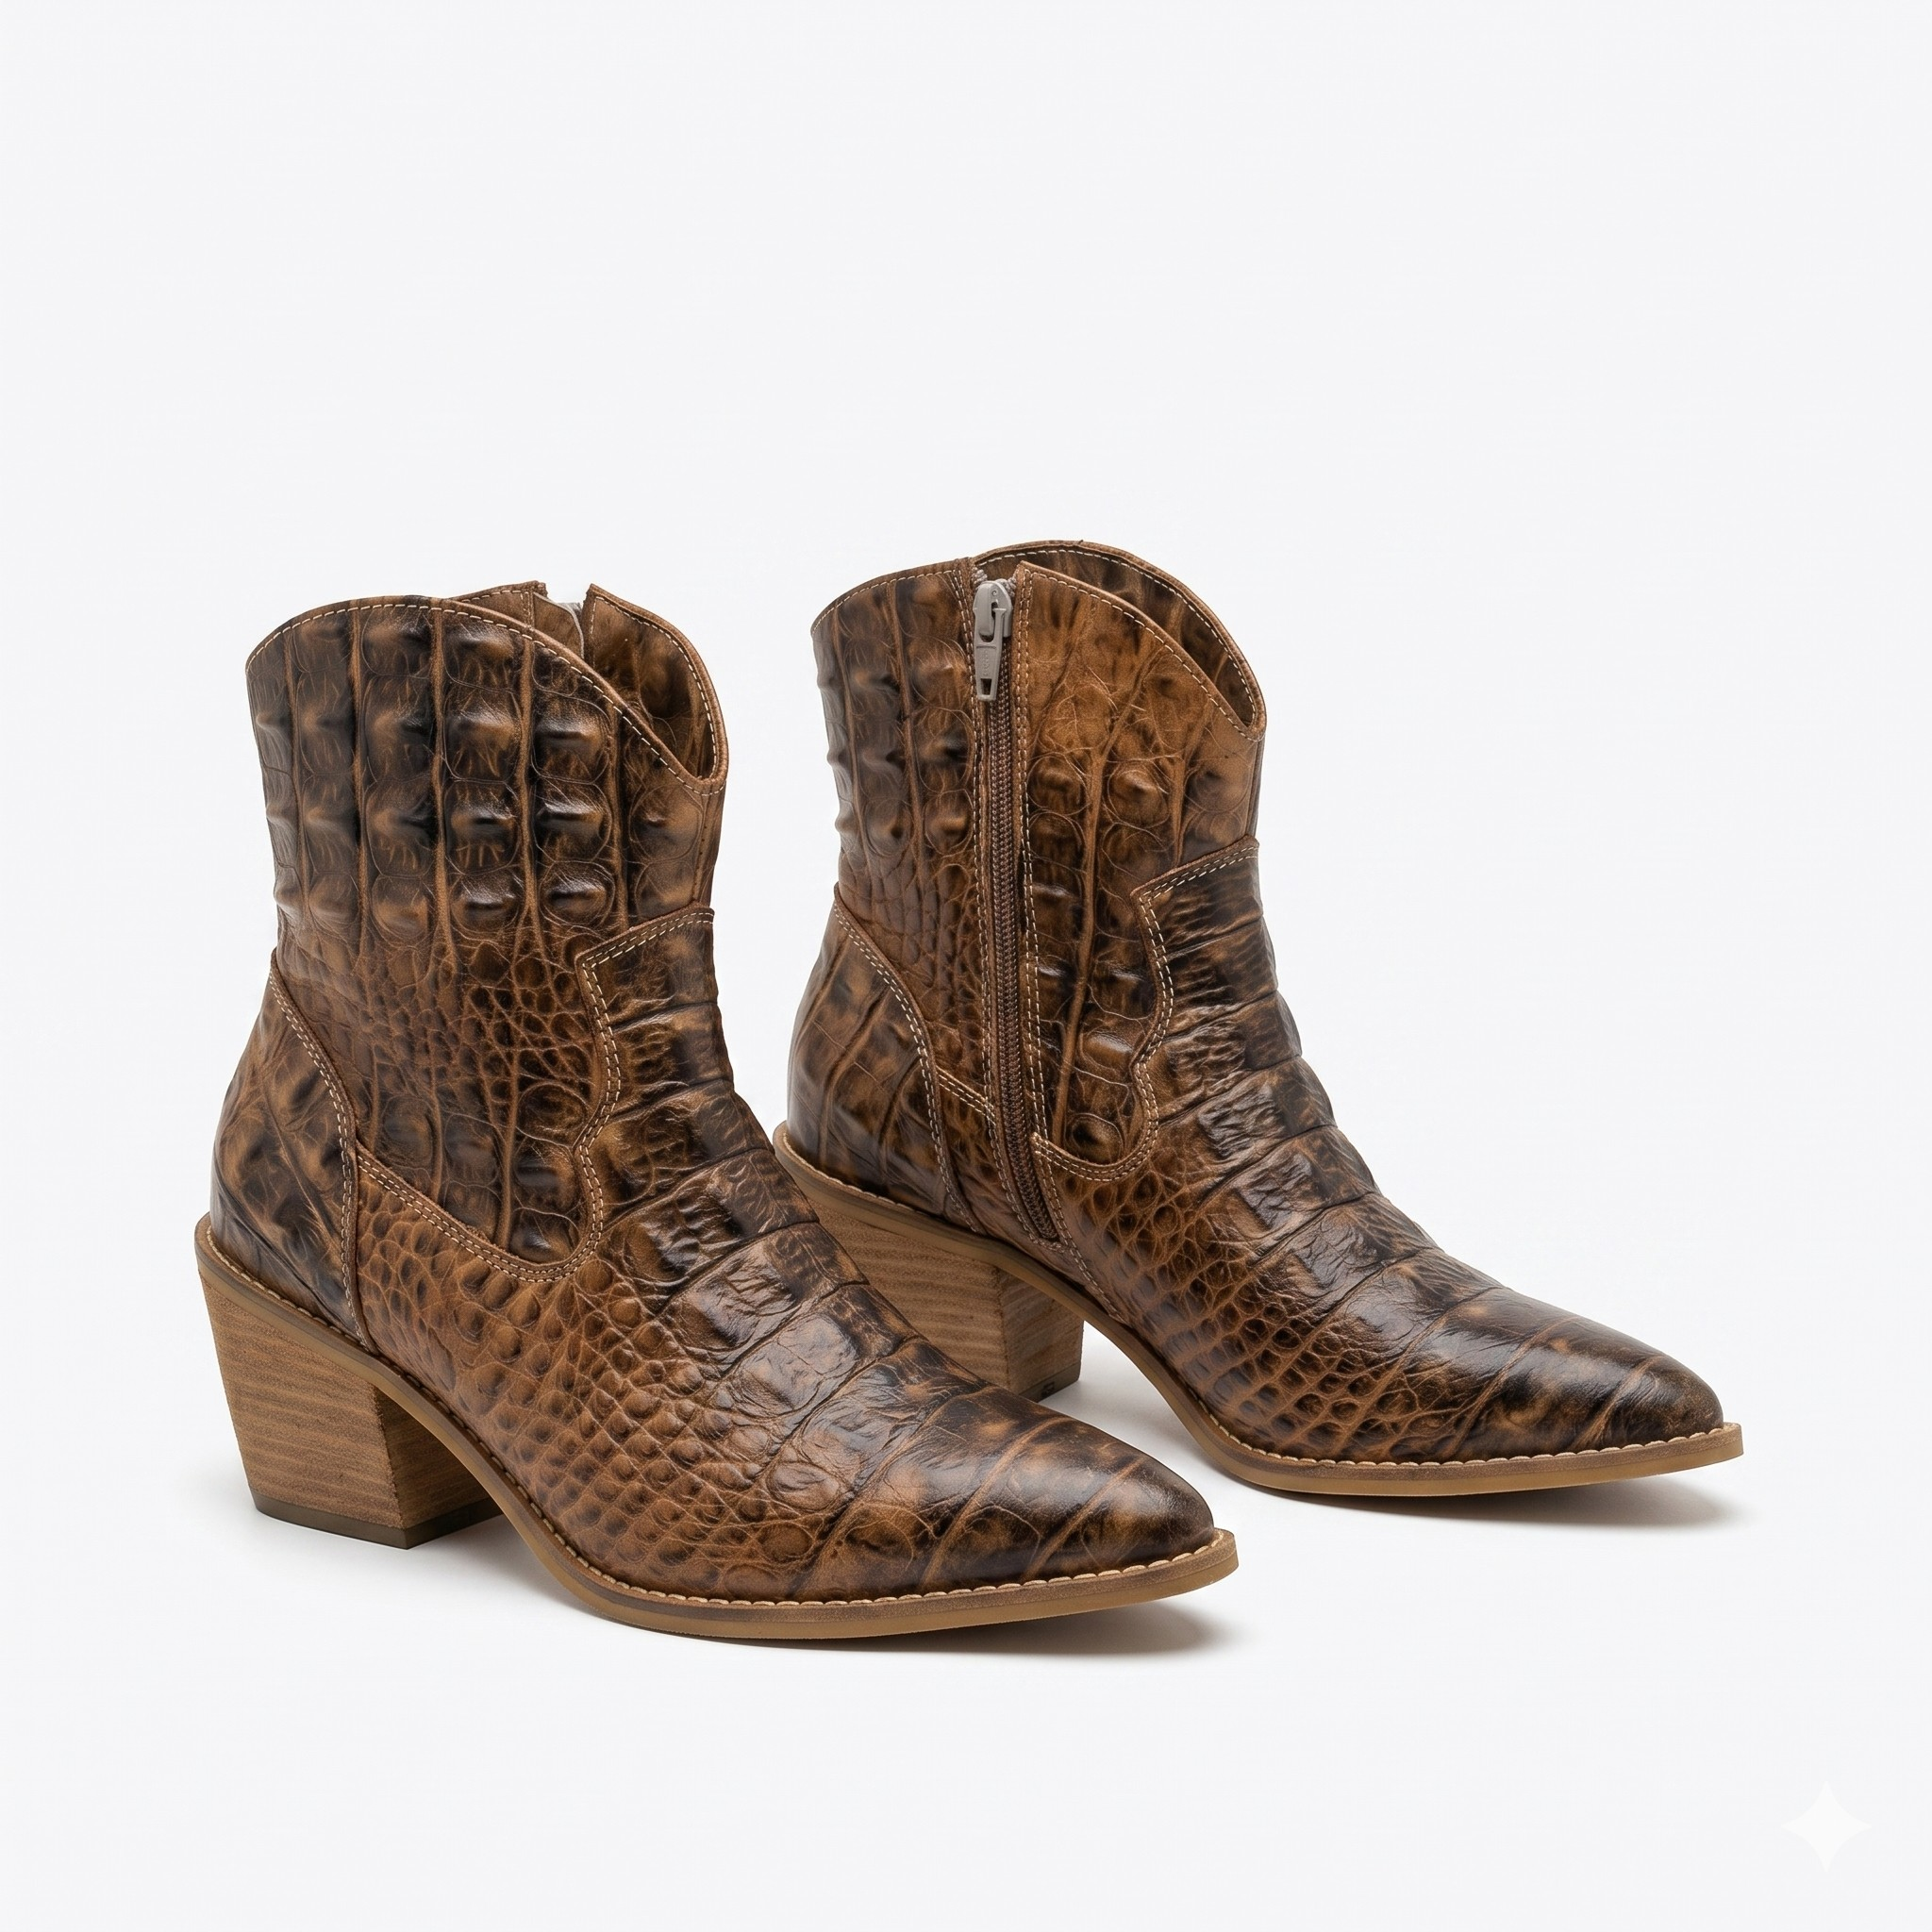
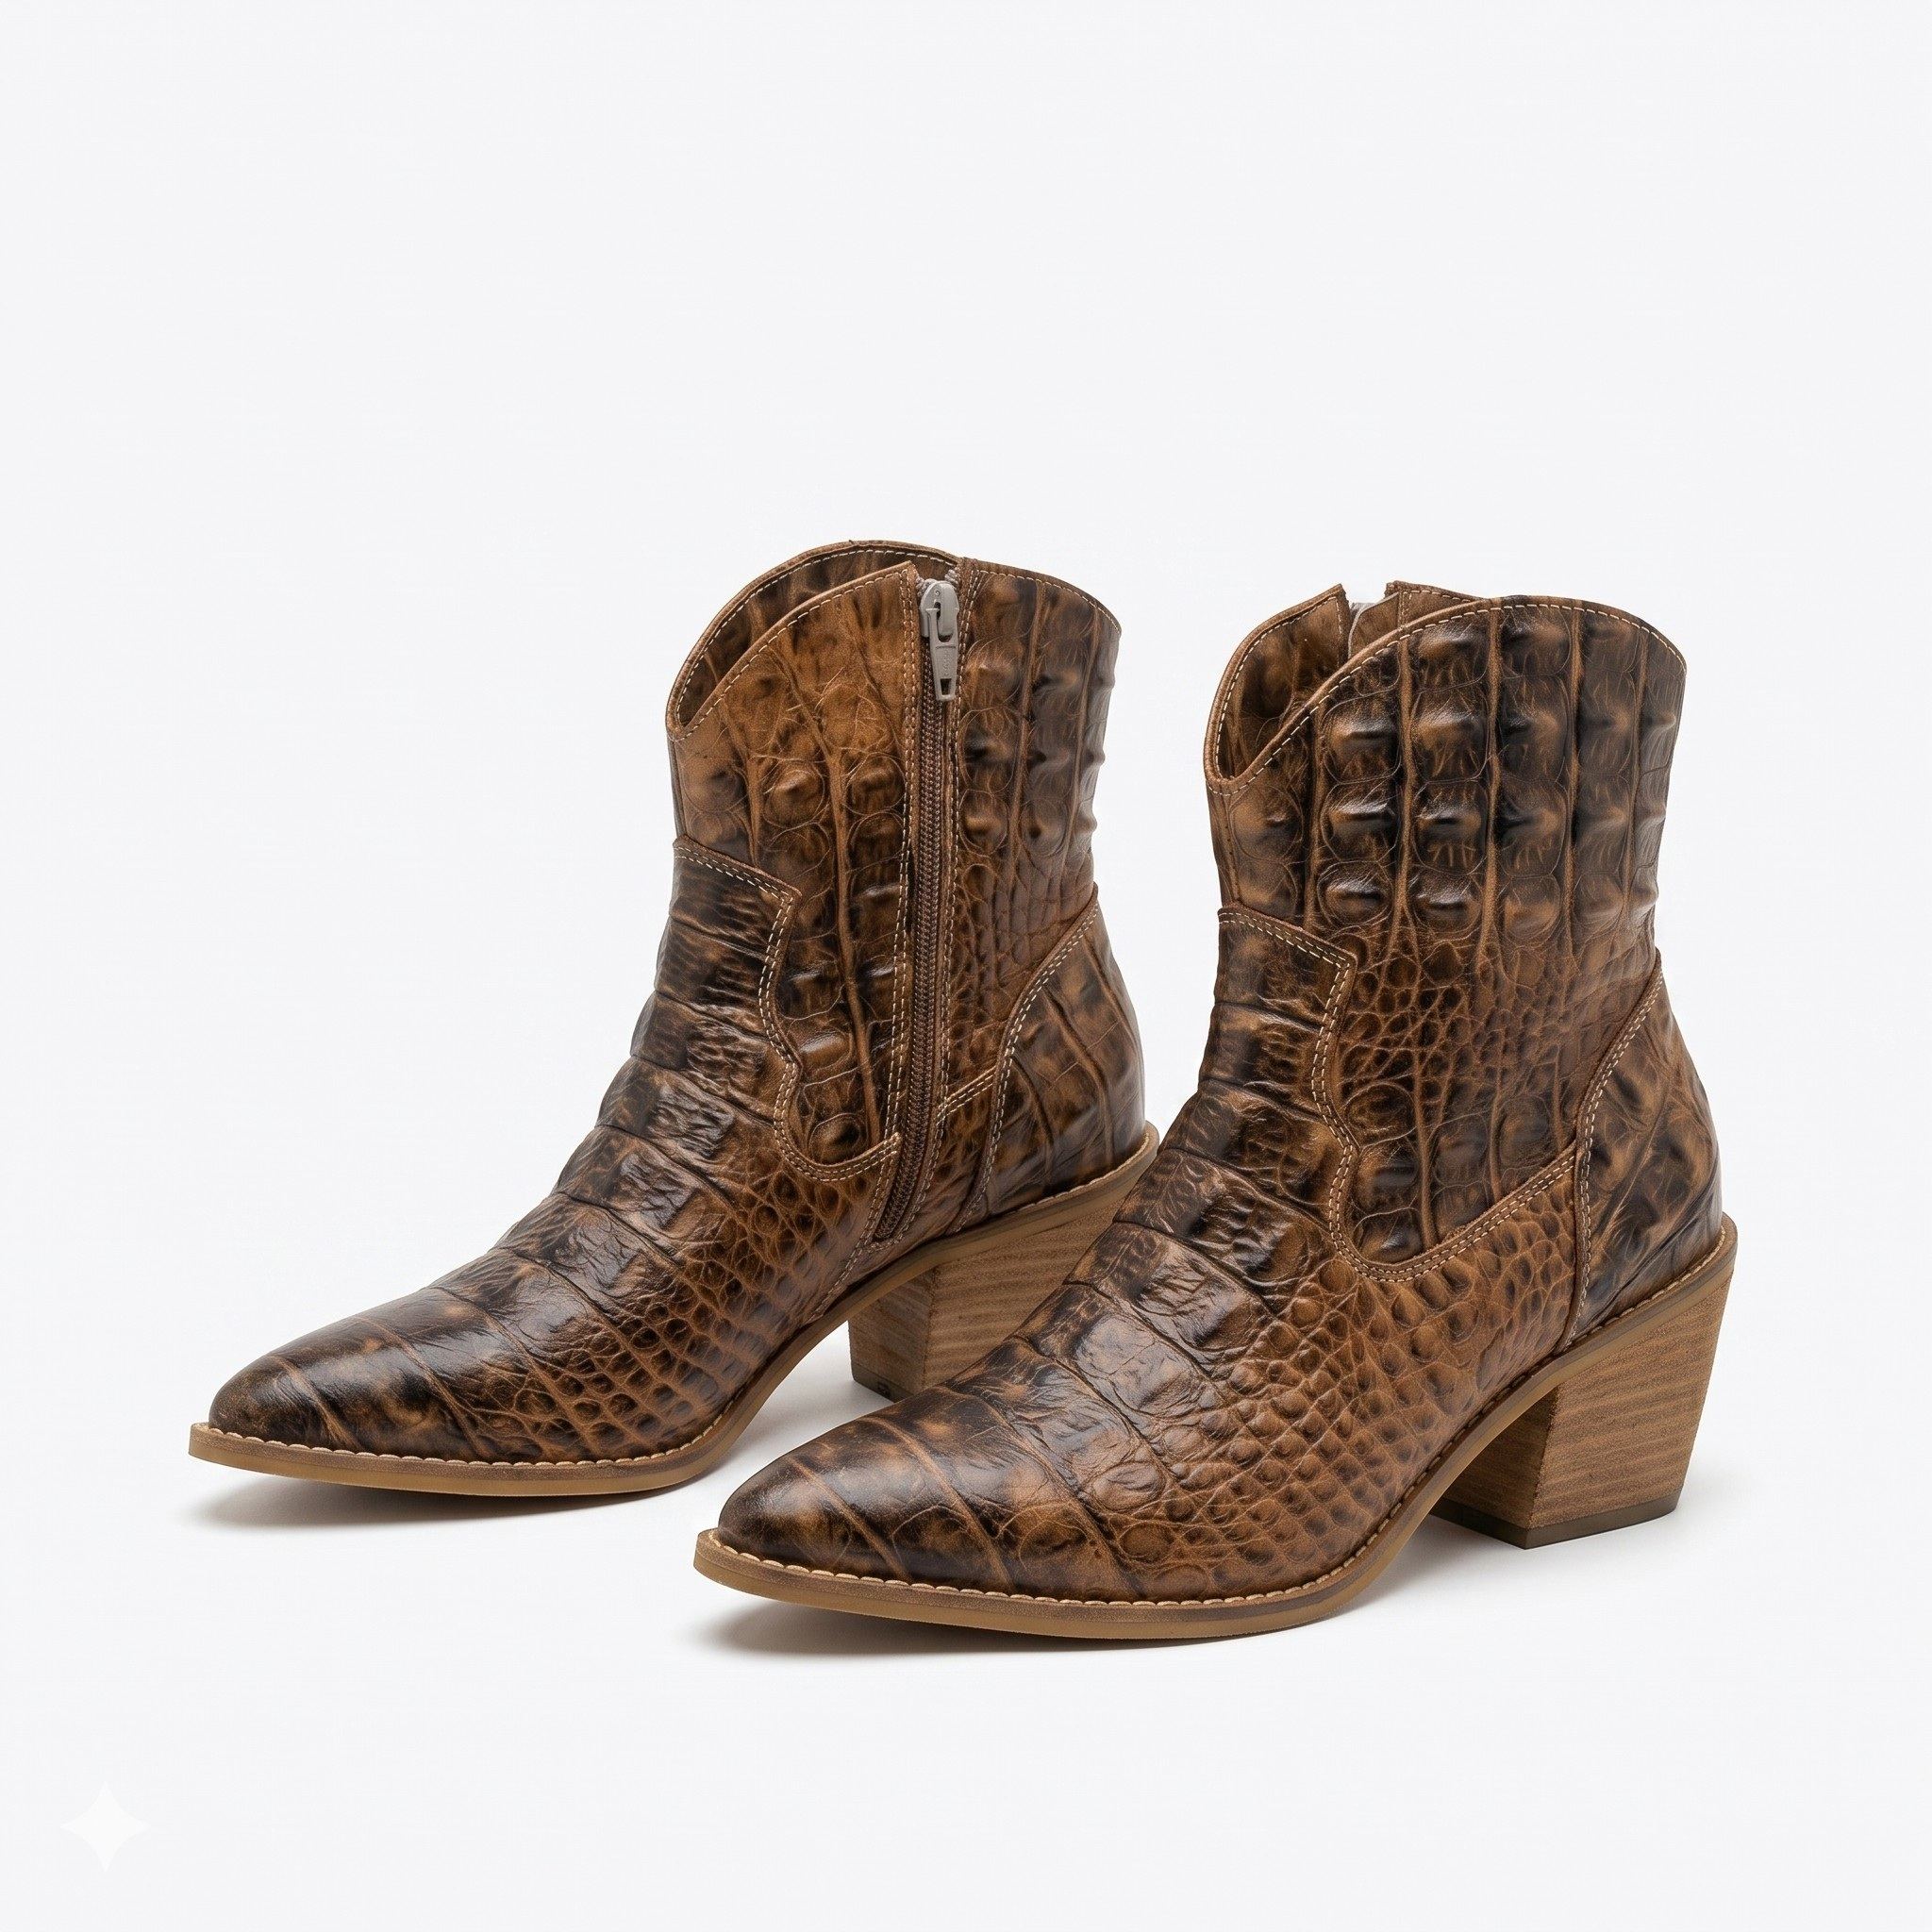
Actualizar catalogo lun 13/07/2026

diff --git a/Catalogo Botines.html b/Catalogo Botines.html
@@ -81,7 +81,7 @@ select.hdr-sel option { background:#222; color:#fff; }
     <input type="text" id="search" placeholder="Buscar por codigo...">
     <select id="filter-talla" class="hdr-sel"><option value="">Todas las tallas</option></select>
     <select id="filter-color" class="hdr-sel"><option value="">Todos los colores</option></select>
-    <span id="gen-date">Actualizado: 13/07/2026 06:11</span>
+    <span id="gen-date">Actualizado: 13/07/2026 06:16</span>
   </div>
 </div>
 <div id="grid"></div>
@@ -113,7 +113,7 @@ select.hdr-sel option { background:#222; color:#fff; }
   </div>
 </div>
 <script>
-const PRODUCTS=[{"_idx": 0, "cod": "570", "nombre": "570", "precio": 15000, "cantidad": 0, "foto": "", "colores": [], "tallas": [], "talla_colores": {}, "color_tallas": {}, "colores_fotos": {}, "mysoft_activo": true, "precios_ciudad": {"Pereira": 15000, "Cartago": 15000}}, {"_idx": 1, "cod": "57000", "nombre": "57000", "precio": 70000, "cantidad": 1, "foto": "fotos/57000.jpg", "colores": ["Beige"], "tallas": ["37"], "talla_colores": {"37": ["Beige"]}, "color_tallas": {"Beige": ["37"]}, "colores_fotos": {"Beige": "fotos/57000.jpg"}, "mysoft_activo": true, "precios_ciudad": {"Cartago": 160000}}, {"_idx": 2, "cod": "57001", "nombre": "57001", "precio": 60000, "cantidad": 0, "foto": "fotos/57001.jpg", "colores": [], "tallas": [], "talla_colores": {}, "color_tallas": {}, "colores_fotos": {}, "mysoft_activo": true, "precios_ciudad": {"Cartago": 165000}}, {"_idx": 3, "cod": "57002", "nombre": "57002", "precio": 177000, "cantidad": 0, "foto": "", "colores": [], "tallas": [], "talla_colores": {}, "color_tallas": {}, "colores_fotos": {}, "mysoft_activo": true, "precios_ciudad": {"Bogota": 215000, "Cartago": 185000}}, {"_idx": 4, "cod": "57003", "nombre": "57003", "precio": 140000, "cantidad": 8, "foto": "", "colores": ["Azul", "Dorado", "Negro", "Rojo"], "tallas": ["34", "36", "39", "40"], "talla_colores": {"39": ["Azul", "Negro", "Rojo"], "36": ["Dorado", "Rojo"], "34": ["Negro", "Rojo"], "40": ["Rojo"]}, "color_tallas": {"Azul": ["39"], "Dorado": ["36"], "Negro": ["34", "39"], "Rojo": ["34", "36", "39", "40"]}, "colores_fotos": {}, "mysoft_activo": true, "precios_ciudad": {"Bogota": 297000, "Cartago": 225000}}, {"_idx": 5, "cod": "57004", "nombre": "57004", "precio": 215000, "cantidad": 0, "foto": "fotos/57004.jpg", "colores": [], "tallas": [], "talla_colores": {}, "color_tallas": {}, "colores_fotos": {}, "mysoft_activo": true, "precios_ciudad": {"Cartago": 215000, "Bogota": 215000}}, {"_idx": 6, "cod": "57005", "nombre": "57005", "precio": 187000, "cantidad": 0, "foto": "fotos/57005.jpg", "colores": [], "tallas": [], "talla_colores": {}, "color_tallas": {}, "colores_fotos": {}, "mysoft_activo": true, "precios_ciudad": {"Bogota": 187000, "Cartago": 167000}}, {"_idx": 7, "cod": "57006", "nombre": "57006", "precio": 245000, "cantidad": 0, "foto": "", "colores": [], "tallas": [], "talla_colores": {}, "color_tallas": {}, "colores_fotos": {}, "mysoft_activo": true, "precios_ciudad": {"Bogota": 245000}}, {"_idx": 8, "cod": "57007", "nombre": "57007", "precio": 185000, "cantidad": 0, "foto": "fotos/57007.jpg", "colores": [], "tallas": [], "talla_colores": {}, "color_tallas": {}, "colores_fotos": {}, "mysoft_activo": true, "precios_ciudad": {"Bogota": 185000}}, {"_idx": 9, "cod": "57008", "nombre": "57008", "precio": 216200, "cantidad": 0, "foto": "fotos/57008.jpg", "colores": [], "tallas": [], "talla_colores": {}, "color_tallas": {}, "colores_fotos": {}, "mysoft_activo": true, "precios_ciudad": {"Bogota": 235000}}, {"_idx": 10, "cod": "57009", "nombre": "57009", "precio": 225000, "cantidad": 0, "foto": "fotos/57009.jpg", "colores": [], "tallas": [], "talla_colores": {}, "color_tallas": {}, "colores_fotos": {}, "mysoft_activo": true, "precios_ciudad": {"Bogota": 225000}}, {"_idx": 11, "cod": "57010", "nombre": "57010", "precio": 220000, "cantidad": 1, "foto": "fotos/57010.jpg", "colores": ["Negro"], "tallas": ["39"], "talla_colores": {"39": ["Negro"]}, "color_tallas": {"Negro": ["39"]}, "colores_fotos": {"Negro": "fotos/57010.jpg"}, "mysoft_activo": true, "precios_ciudad": {"Cartago": 220000, "Bogota": 225000}}, {"_idx": 12, "cod": "57011", "nombre": "57011", "precio": 150000, "cantidad": 0, "foto": "fotos/57011.jpg", "colores": [], "tallas": [], "talla_colores": {}, "color_tallas": {}, "colores_fotos": {}, "mysoft_activo": true, "precios_ciudad": {"Cartago": 150000}}, {"_idx": 13, "cod": "57012", "nombre": "57012", "precio": 180000, "cantidad": 0, "foto": "", "colores": [], "tallas": [], "talla_colores": {}, "color_tallas": {}, "colores_fotos": {}, "mysoft_activo": true, "precios_ciudad": {"Cartago": 180000}}, {"_idx": 14, "cod": "57013", "nombre": "57013", "precio": 83500, "cantidad": 0, "foto": "", "colores": [], "tallas": [], "talla_colores": {}, "color_tallas": {}, "colores_fotos": {}, "mysoft_activo": true, "precios_ciudad": {"Cartago": 95000}}, {"_idx": 15, "cod": "57014", "nombre": "57014", "precio": 167000, "cantidad": 0, "foto": "fotos/57014.jpg", "colores": [], "tallas": [], "talla_colores": {}, "color_tallas": {}, "colores_fotos": {}, "mysoft_activo": true, "precios_ciudad": {"Cartago": 167000}}, {"_idx": 16, "cod": "57015", "nombre": "57015", "precio": 143500, "cantidad": 1, "foto": "", "colores": ["Negro"], "tallas": ["37"], "talla_colores": {"37": ["Negro"]}, "color_tallas": {"Negro": ["37"]}, "colores_fotos": {}, "mysoft_activo": true, "precios_ciudad": {"Bogota": 258300, "Cartago": 195000}}, {"_idx": 17, "cod": "57017", "nombre": "57017", "precio": 285300, "cantidad": 8, "foto": "fotos/57017.jpg", "colores": ["Negro", "Rojo"], "tallas": ["35", "36", "38", "39"], "talla_colores": {"38": ["Negro", "Rojo"], "35": ["Negro"], "36": ["Negro", "Rojo"], "39": ["Rojo"]}, "color_tallas": {"Negro": ["35", "36", "38"], "Rojo": ["36", "38", "39"]}, "colores_fotos": {}, "mysoft_activo": true, "precios_ciudad": {"Bogota": 298000, "Cartago": 270000}}, {"_idx": 18, "cod": "57018", "nombre": "57018", "precio": 230000, "cantidad": 0, "foto": "fotos/57018.jpg", "colores": [], "tallas": [], "talla_colores": {}, "color_tallas": {}, "colores_fotos": {}, "mysoft_activo": true, "precios_ciudad": {"Bogota": 245000, "Cartago": 217000}}, {"_idx": 19, "cod": "57019", "nombre": "57019", "precio": 200000, "cantidad": 6, "foto": "fotos/57019 Rojo.jpg", "colores": ["Negro", "Rojo"], "tallas": ["35", "36", "37", "38", "39"], "talla_colores": {"37": ["Rojo"], "35": ["Negro", "Rojo"], "39": ["Negro"], "36": ["Rojo"], "38": ["Rojo"]}, "color_tallas": {"Rojo": ["35", "36", "37", "38"], "Negro": ["35", "39"]}, "colores_fotos": {"Negro": "fotos/57019 Negro.jpg", "Rojo": "fotos/57019 Rojo.jpg"}, "mysoft_activo": true, "precios_ciudad": {"Bogota": 317000, "Cartago": 287000}}, {"_idx": 20, "cod": "57021", "nombre": "57021", "precio": 200000, "cantidad": 0, "foto": "fotos/57021.jpg", "colores": [], "tallas": [], "talla_colores": {}, "color_tallas": {}, "colores_fotos": {}, "mysoft_activo": true, "precios_ciudad": {"Bogota": 267000}}, {"_idx": 21, "cod": "57022", "nombre": "57022", "precio": 200000, "cantidad": 0, "foto": "fotos/57022.jpg", "colores": [], "tallas": [], "talla_colores": {}, "color_tallas": {}, "colores_fotos": {}, "mysoft_activo": true, "precios_ciudad": {"Bogota": 278000, "Cartago": 270000}}, {"_idx": 22, "cod": "57023", "nombre": "57023", "precio": 139000, "cantidad": 0, "foto": "fotos/57023.jpg", "colores": [], "tallas": [], "talla_colores": {}, "color_tallas": {}, "colores_fotos": {}, "mysoft_activo": true, "precios_ciudad": {"Bogota": 274000}}, {"_idx": 23, "cod": "57024", "nombre": "57024", "precio": 140000, "cantidad": 0, "foto": "fotos/57024.jpg", "colores": [], "tallas": [], "talla_colores": {}, "color_tallas": {}, "colores_fotos": {}, "mysoft_activo": true, "precios_ciudad": {"Bogota": 235000, "Cartago": 180000}}, {"_idx": 24, "cod": "57025", "nombre": "57025", "precio": 184000, "cantidad": 0, "foto": "fotos/57025.jpg", "colores": [], "tallas": [], "talla_colores": {}, "color_tallas": {}, "colores_fotos": {}, "mysoft_activo": true, "precios_ciudad": {"Bogota": 238000}}, {"_idx": 25, "cod": "57026", "nombre": "57026", "precio": 184000, "cantidad": 1, "foto": "", "colores": ["Café"], "tallas": ["34"], "talla_colores": {"34": ["Café"]}, "color_tallas": {"Café": ["34"]}, "colores_fotos": {}, "mysoft_activo": true, "precios_ciudad": {"Bogota": 235000}}, {"_idx": 26, "cod": "57027", "nombre": "57027", "precio": 228000, "cantidad": 0, "foto": "fotos/57027.jpg", "colores": [], "tallas": [], "talla_colores": {}, "color_tallas": {}, "colores_fotos": {}, "mysoft_activo": true, "precios_ciudad": {"Bogota": 228000}}, {"_idx": 27, "cod": "57028", "nombre": "57028", "precio": 0, "cantidad": 0, "foto": "fotos/57028.jpg", "colores": [], "tallas": [], "talla_colores": {}, "color_tallas": {}, "colores_fotos": {}, "mysoft_activo": true, "precios_ciudad": {}}, {"_idx": 28, "cod": "57029", "nombre": "57029", "precio": 265000, "cantidad": 3, "foto": "fotos/57029.jpg", "colores": ["Rojo"], "tallas": ["36", "38"], "talla_colores": {"36": ["Rojo"], "38": ["Rojo"]}, "color_tallas": {"Rojo": ["36", "38"]}, "colores_fotos": {"Rojo": "fotos/57029.jpg"}, "mysoft_activo": true, "precios_ciudad": {"Bogota": 295000, "Cartago": 197000}}, {"_idx": 29, "cod": "57030", "nombre": "57030", "precio": 0, "cantidad": 0, "foto": "fotos/57030.jpg", "colores": [], "tallas": [], "talla_colores": {}, "color_tallas": {}, "colores_fotos": {}, "mysoft_activo": true, "precios_ciudad": {}}, {"_idx": 30, "cod": "57031", "nombre": "57031", "precio": 249000, "cantidad": 0, "foto": "", "colores": [], "tallas": [], "talla_colores": {}, "color_tallas": {}, "colores_fotos": {}, "mysoft_activo": true, "precios_ciudad": {"Bogota": 249000}}, {"_idx": 31, "cod": "57032", "nombre": "57032", "precio": 258300, "cantidad": 9, "foto": "fotos/57032.jpg", "colores": ["Beige", "Negro", "Rojo"], "tallas": ["35", "36", "39", "40"], "talla_colores": {"36": ["Rojo"], "35": ["Negro"], "39": ["Beige", "Rojo"], "40": ["Rojo"]}, "color_tallas": {"Rojo": ["36", "39", "40"], "Negro": ["35"], "Beige": ["39"]}, "colores_fotos": {}, "mysoft_activo": true, "precios_ciudad": {"Bogota": 390000, "Cartago": 270000}}, {"_idx": 32, "cod": "57034", "nombre": "57034", "precio": 330300, "cantidad": 7, "foto": "fotos/57034.jpg", "colores": ["Beige", "Negro"], "tallas": ["35", "36", "37", "38", "39", "40"], "talla_colores": {"36": ["Negro"], "38": ["Negro"], "39": ["Beige", "Negro"], "37": ["Negro"], "35": ["Negro"], "40": ["Negro"]}, "color_tallas": {"Negro": ["35", "36", "37", "38", "39", "40"], "Beige": ["39"]}, "colores_fotos": {}, "mysoft_activo": true, "precios_ciudad": {"Bogota": 350000}}, {"_idx": 33, "cod": "57035", "nombre": "57035", "precio": 250000, "cantidad": 0, "foto": "fotos/57035.jpg", "colores": [], "tallas": [], "talla_colores": {}, "color_tallas": {}, "colores_fotos": {}, "mysoft_activo": true, "precios_ciudad": {"Bogota": 387000}}, {"_idx": 34, "cod": "57036", "nombre": "57036", "precio": 290000, "cantidad": 1, "foto": "fotos/57036.jpg", "colores": ["Negro"], "tallas": ["40"], "talla_colores": {"40": ["Negro"]}, "color_tallas": {"Negro": ["40"]}, "colores_fotos": {"Negro": "fotos/57036.jpg"}, "mysoft_activo": true, "precios_ciudad": {"Bogota": 395000}}, {"_idx": 35, "cod": "57037", "nombre": "57037", "precio": 247000, "cantidad": 4, "foto": "fotos/57037.jpg", "colores": ["Bronce", "Negro"], "tallas": ["35", "36", "37", "38"], "talla_colores": {"35": ["Negro"], "36": ["Negro"], "38": ["Bronce"], "37": ["Negro"]}, "color_tallas": {"Negro": ["35", "36", "37"], "Bronce": ["38"]}, "colores_fotos": {}, "mysoft_activo": true, "precios_ciudad": {"Cartago": 247000, "Bogota": 278000}}, {"_idx": 36, "cod": "57038", "nombre": "57038", "precio": 0, "cantidad": 0, "foto": "fotos/57038.jpg", "colores": [], "tallas": [], "talla_colores": {}, "color_tallas": {}, "colores_fotos": {}, "mysoft_activo": true, "precios_ciudad": {}}, {"_idx": 37, "cod": "57039", "nombre": "57039", "precio": 411300, "cantidad": 3, "foto": "fotos/57039.jpg", "colores": ["Miel"], "tallas": ["38", "39"], "talla_colores": {"38": ["Miel"], "39": ["Miel"]}, "color_tallas": {"Miel": ["38", "39"]}, "colores_fotos": {"Miel": "fotos/57039.jpg"}, "mysoft_activo": true, "precios_ciudad": {"Bogota": 457000}}, {"_idx": 38, "cod": "57040", "nombre": "57040", "precio": 297000, "cantidad": 2, "foto": "fotos/57040.jpg", "colores": ["Miel"], "tallas": ["37", "38"], "talla_colores": {"37": ["Miel"], "38": ["Miel"]}, "color_tallas": {"Miel": ["37", "38"]}, "colores_fotos": {"Miel": "fotos/57040.jpg"}, "mysoft_activo": true, "precios_ciudad": {"Bogota": 395000}}, {"_idx": 39, "cod": "57041", "nombre": "57041", "precio": 350000, "cantidad": 1, "foto": "fotos/57041.jpg", "colores": ["Negro"], "tallas": ["36"], "talla_colores": {"36": ["Negro"]}, "color_tallas": {"Negro": ["36"]}, "colores_fotos": {"Negro": "fotos/57041.jpg"}, "mysoft_activo": true, "precios_ciudad": {"Bogota": 379000}}, {"_idx": 40, "cod": "57042", "nombre": "57042", "precio": 350000, "cantidad": 0, "foto": "fotos/57042.jpg", "colores": [], "tallas": [], "talla_colores": {}, "color_tallas": {}, "colores_fotos": {}, "mysoft_activo": true, "precios_ciudad": {"Bogota": 467000}}, {"_idx": 41, "cod": "57043", "nombre": "57043", "precio": 380000, "cantidad": 2, "foto": "fotos/57043.jpg", "colores": ["Miel"], "tallas": ["35", "39"], "talla_colores": {"35": ["Miel"], "39": ["Miel"]}, "color_tallas": {"Miel": ["35", "39"]}, "colores_fotos": {"Miel": "fotos/57043.jpg"}, "mysoft_activo": true, "precios_ciudad": {"Bogota": 465000}}, {"_idx": 42, "cod": "57044", "nombre": "57044", "precio": 350000, "cantidad": 0, "foto": "fotos/57044.jpg", "colores": [], "tallas": [], "talla_colores": {}, "color_tallas": {}, "colores_fotos": {}, "mysoft_activo": true, "precios_ciudad": {"Bogota": 397000}}, {"_idx": 43, "cod": "57045", "nombre": "57045", "precio": 330300, "cantidad": 1, "foto": "fotos/57045.jpg", "colores": ["Miel"], "tallas": ["38"], "talla_colores": {"38": ["Miel"]}, "color_tallas": {"Miel": ["38"]}, "colores_fotos": {"Miel": "fotos/57045.jpg"}, "mysoft_activo": true, "precios_ciudad": {"Bogota": 367000}}, {"_idx": 44, "cod": "57046", "nombre": "57046", "precio": 667000, "cantidad": 0, "foto": "", "colores": [], "tallas": [], "talla_colores": {}, "color_tallas": {}, "colores_fotos": {}, "mysoft_activo": true, "precios_ciudad": {"Bogota": 667000}}, {"_idx": 45, "cod": "57048", "nombre": "57048", "precio": 476000, "cantidad": 0, "foto": "", "colores": [], "tallas": [], "talla_colores": {}, "color_tallas": {}, "colores_fotos": {}, "mysoft_activo": true, "precios_ciudad": {"Bogota": 476000}}, {"_idx": 46, "cod": "57050", "nombre": "57050", "precio": 347000, "cantidad": 0, "foto": "", "colores": [], "tallas": [], "talla_colores": {}, "color_tallas": {}, "colores_fotos": {}, "mysoft_activo": true, "precios_ciudad": {"Bogota": 347000}}, {"_idx": 47, "cod": "57051", "nombre": "57051", "precio": 387000, "cantidad": 0, "foto": "", "colores": [], "tallas": [], "talla_colores": {}, "color_tallas": {}, "colores_fotos": {}, "mysoft_activo": true, "precios_ciudad": {"Bogota": 387000}}, {"_idx": 48, "cod": "57052", "nombre": "57052", "precio": 397000, "cantidad": 0, "foto": "", "colores": [], "tallas": [], "talla_colores": {}, "color_tallas": {}, "colores_fotos": {}, "mysoft_activo": true, "precios_ciudad": {"Bogota": 397000}}, {"_idx": 49, "cod": "57053", "nombre": "57053", "precio": 787000, "cantidad": 0, "foto": "", "colores": [], "tallas": [], "talla_colores": {}, "color_tallas": {}, "colores_fotos": {}, "mysoft_activo": true, "precios_ciudad": {"Bogota": 787000}}, {"_idx": 50, "cod": "57054", "nombre": "57054", "precio": 0, "cantidad": 7, "foto": "fotos/57054.jpg", "colores": ["Miel"], "tallas": ["36", "37", "38", "39"], "talla_colores": {"36": ["Miel"], "37": ["Miel"], "38": ["Miel"], "39": ["Miel"]}, "color_tallas": {"Miel": ["36", "37", "38", "39"]}, "colores_fotos": {"Miel": "fotos/57054.jpg"}, "mysoft_activo": true, "precios_ciudad": {}}, {"_idx": 51, "cod": "57055", "nombre": "57055", "precio": 345000, "cantidad": 4, "foto": "fotos/57055.jpg", "colores": ["Negro"], "tallas": ["36", "37", "39"], "talla_colores": {"36": ["Negro"], "37": ["Negro"], "39": ["Negro"]}, "color_tallas": {"Negro": ["36", "37", "39"]}, "colores_fotos": {"Negro": "fotos/57055.jpg"}, "mysoft_activo": true, "precios_ciudad": {"Bogota": 345000}}, {"_idx": 52, "cod": "57056", "nombre": "57056", "precio": 322000, "cantidad": 2, "foto": "fotos/57056.jpg", "colores": ["Miel"], "tallas": ["37", "39"], "talla_colores": {"37": ["Miel"], "39": ["Miel"]}, "color_tallas": {"Miel": ["37", "39"]}, "colores_fotos": {"Miel": "fotos/57056.jpg"}, "mysoft_activo": true, "precios_ciudad": {"Bogota": 357000}}, {"_idx": 53, "cod": "571", "nombre": "571", "precio": 20000, "cantidad": 0, "foto": "", "colores": [], "tallas": [], "talla_colores": {}, "color_tallas": {}, "colores_fotos": {}, "mysoft_activo": true, "precios_ciudad": {"Cartago": 23000}}, {"_idx": 54, "cod": "572", "nombre": "572", "precio": 40000, "cantidad": 0, "foto": "", "colores": [], "tallas": [], "talla_colores": {}, "color_tallas": {}, "colores_fotos": {}, "mysoft_activo": true, "precios_ciudad": {"Cartago": 40000}}, {"_idx": 55, "cod": "573", "nombre": "573", "precio": 10000, "cantidad": 0, "foto": "", "colores": [], "tallas": [], "talla_colores": {}, "color_tallas": {}, "colores_fotos": {}, "mysoft_activo": true, "precios_ciudad": {"Cartago": 23000}}, {"_idx": 56, "cod": "574", "nombre": "574", "precio": 25000, "cantidad": 0, "foto": "", "colores": [], "tallas": [], "talla_colores": {}, "color_tallas": {}, "colores_fotos": {}, "mysoft_activo": true, "precios_ciudad": {"Cartago": 33000}}, {"_idx": 57, "cod": "575", "nombre": "575", "precio": 10000, "cantidad": 0, "foto": "", "colores": [], "tallas": [], "talla_colores": {}, "color_tallas": {}, "colores_fotos": {}, "mysoft_activo": true, "precios_ciudad": {"Cartago": 33000}}, {"_idx": 58, "cod": "576", "nombre": "576", "precio": 30000, "cantidad": 0, "foto": "", "colores": [], "tallas": [], "talla_colores": {}, "color_tallas": {}, "colores_fotos": {}, "mysoft_activo": true, "precios_ciudad": {"Cartago": 30000}}, {"_idx": 59, "cod": "577", "nombre": "577", "precio": 40000, "cantidad": 0, "foto": "", "colores": [], "tallas": [], "talla_colores": {}, "color_tallas": {}, "colores_fotos": {}, "mysoft_activo": true, "precios_ciudad": {"Cartago": 40000}}, {"_idx": 60, "cod": "578", "nombre": "578", "precio": 35000, "cantidad": 0, "foto": "", "colores": [], "tallas": [], "talla_colores": {}, "color_tallas": {}, "colores_fotos": {}, "mysoft_activo": true, "precios_ciudad": {"Cartago": 35000}}, {"_idx": 61, "cod": "579", "nombre": "579", "precio": 25000, "cantidad": 0, "foto": "", "colores": [], "tallas": [], "talla_colores": {}, "color_tallas": {}, "colores_fotos": {}, "mysoft_activo": true, "precios_ciudad": {"Cartago": 25000}}];
+const PRODUCTS=[{"_idx": 0, "cod": "570", "nombre": "570", "precio": 15000, "cantidad": 0, "foto": "", "colores": [], "tallas": [], "talla_colores": {}, "color_tallas": {}, "colores_fotos": {}, "mysoft_activo": true, "precios_ciudad": {"Pereira": 15000, "Cartago": 15000}}, {"_idx": 1, "cod": "57000", "nombre": "57000", "precio": 70000, "cantidad": 1, "foto": "fotos/57000.jpg", "colores": ["Beige"], "tallas": ["37"], "talla_colores": {"37": ["Beige"]}, "color_tallas": {"Beige": ["37"]}, "colores_fotos": {"Beige": "fotos/57000.jpg"}, "mysoft_activo": true, "precios_ciudad": {"Cartago": 160000}}, {"_idx": 2, "cod": "57001", "nombre": "57001", "precio": 60000, "cantidad": 0, "foto": "fotos/57001.jpg", "colores": [], "tallas": [], "talla_colores": {}, "color_tallas": {}, "colores_fotos": {}, "mysoft_activo": true, "precios_ciudad": {"Cartago": 165000}}, {"_idx": 3, "cod": "57002", "nombre": "57002", "precio": 177000, "cantidad": 0, "foto": "", "colores": [], "tallas": [], "talla_colores": {}, "color_tallas": {}, "colores_fotos": {}, "mysoft_activo": true, "precios_ciudad": {"Bogota": 215000, "Cartago": 185000}}, {"_idx": 4, "cod": "57003", "nombre": "57003", "precio": 140000, "cantidad": 8, "foto": "", "colores": ["Azul", "Dorado", "Negro", "Rojo"], "tallas": ["34", "36", "39", "40"], "talla_colores": {"39": ["Azul", "Negro", "Rojo"], "36": ["Dorado", "Rojo"], "34": ["Negro", "Rojo"], "40": ["Rojo"]}, "color_tallas": {"Azul": ["39"], "Dorado": ["36"], "Negro": ["34", "39"], "Rojo": ["34", "36", "39", "40"]}, "colores_fotos": {}, "mysoft_activo": true, "precios_ciudad": {"Bogota": 297000, "Cartago": 225000}}, {"_idx": 5, "cod": "57004", "nombre": "57004", "precio": 215000, "cantidad": 0, "foto": "fotos/57004.jpg", "colores": [], "tallas": [], "talla_colores": {}, "color_tallas": {}, "colores_fotos": {}, "mysoft_activo": true, "precios_ciudad": {"Cartago": 215000, "Bogota": 215000}}, {"_idx": 6, "cod": "57005", "nombre": "57005", "precio": 187000, "cantidad": 0, "foto": "fotos/57005.jpg", "colores": [], "tallas": [], "talla_colores": {}, "color_tallas": {}, "colores_fotos": {}, "mysoft_activo": true, "precios_ciudad": {"Bogota": 187000, "Cartago": 167000}}, {"_idx": 7, "cod": "57006", "nombre": "57006", "precio": 245000, "cantidad": 0, "foto": "", "colores": [], "tallas": [], "talla_colores": {}, "color_tallas": {}, "colores_fotos": {}, "mysoft_activo": true, "precios_ciudad": {"Bogota": 245000}}, {"_idx": 8, "cod": "57007", "nombre": "57007", "precio": 185000, "cantidad": 0, "foto": "fotos/57007.jpg", "colores": [], "tallas": [], "talla_colores": {}, "color_tallas": {}, "colores_fotos": {}, "mysoft_activo": true, "precios_ciudad": {"Bogota": 185000}}, {"_idx": 9, "cod": "57008", "nombre": "57008", "precio": 216200, "cantidad": 0, "foto": "fotos/57008.jpg", "colores": [], "tallas": [], "talla_colores": {}, "color_tallas": {}, "colores_fotos": {}, "mysoft_activo": true, "precios_ciudad": {"Bogota": 235000}}, {"_idx": 10, "cod": "57009", "nombre": "57009", "precio": 225000, "cantidad": 0, "foto": "fotos/57009.jpg", "colores": [], "tallas": [], "talla_colores": {}, "color_tallas": {}, "colores_fotos": {}, "mysoft_activo": true, "precios_ciudad": {"Bogota": 225000}}, {"_idx": 11, "cod": "57010", "nombre": "57010", "precio": 220000, "cantidad": 1, "foto": "fotos/57010.jpg", "colores": ["Negro"], "tallas": ["39"], "talla_colores": {"39": ["Negro"]}, "color_tallas": {"Negro": ["39"]}, "colores_fotos": {"Negro": "fotos/57010.jpg"}, "mysoft_activo": true, "precios_ciudad": {"Cartago": 220000, "Bogota": 225000}}, {"_idx": 12, "cod": "57011", "nombre": "57011", "precio": 150000, "cantidad": 0, "foto": "fotos/57011.jpg", "colores": [], "tallas": [], "talla_colores": {}, "color_tallas": {}, "colores_fotos": {}, "mysoft_activo": true, "precios_ciudad": {"Cartago": 150000}}, {"_idx": 13, "cod": "57012", "nombre": "57012", "precio": 180000, "cantidad": 0, "foto": "", "colores": [], "tallas": [], "talla_colores": {}, "color_tallas": {}, "colores_fotos": {}, "mysoft_activo": true, "precios_ciudad": {"Cartago": 180000}}, {"_idx": 14, "cod": "57013", "nombre": "57013", "precio": 83500, "cantidad": 0, "foto": "", "colores": [], "tallas": [], "talla_colores": {}, "color_tallas": {}, "colores_fotos": {}, "mysoft_activo": true, "precios_ciudad": {"Cartago": 95000}}, {"_idx": 15, "cod": "57014", "nombre": "57014", "precio": 167000, "cantidad": 0, "foto": "fotos/57014.jpg", "colores": [], "tallas": [], "talla_colores": {}, "color_tallas": {}, "colores_fotos": {}, "mysoft_activo": true, "precios_ciudad": {"Cartago": 167000}}, {"_idx": 16, "cod": "57015", "nombre": "57015", "precio": 143500, "cantidad": 1, "foto": "", "colores": ["Negro"], "tallas": ["37"], "talla_colores": {"37": ["Negro"]}, "color_tallas": {"Negro": ["37"]}, "colores_fotos": {}, "mysoft_activo": true, "precios_ciudad": {"Bogota": 258300, "Cartago": 195000}}, {"_idx": 17, "cod": "57017", "nombre": "57017", "precio": 285300, "cantidad": 8, "foto": "fotos/57017.jpg", "colores": ["Negro", "Rojo"], "tallas": ["35", "36", "38", "39"], "talla_colores": {"38": ["Negro", "Rojo"], "35": ["Negro"], "36": ["Negro", "Rojo"], "39": ["Rojo"]}, "color_tallas": {"Negro": ["35", "36", "38"], "Rojo": ["36", "38", "39"]}, "colores_fotos": {}, "mysoft_activo": true, "precios_ciudad": {"Bogota": 298000, "Cartago": 270000}}, {"_idx": 18, "cod": "57018", "nombre": "57018", "precio": 230000, "cantidad": 0, "foto": "fotos/57018.jpg", "colores": [], "tallas": [], "talla_colores": {}, "color_tallas": {}, "colores_fotos": {}, "mysoft_activo": true, "precios_ciudad": {"Bogota": 245000, "Cartago": 217000}}, {"_idx": 19, "cod": "57019", "nombre": "57019", "precio": 200000, "cantidad": 6, "foto": "fotos/57019 Rojo.jpg", "colores": ["Negro", "Rojo"], "tallas": ["35", "36", "37", "38", "39"], "talla_colores": {"37": ["Rojo"], "35": ["Negro", "Rojo"], "39": ["Negro"], "36": ["Rojo"], "38": ["Rojo"]}, "color_tallas": {"Rojo": ["35", "36", "37", "38"], "Negro": ["35", "39"]}, "colores_fotos": {"Rojo": "fotos/57019 Rojo.jpg", "Negro": "fotos/57019 Negro.jpg"}, "mysoft_activo": true, "precios_ciudad": {"Bogota": 317000, "Cartago": 287000}}, {"_idx": 20, "cod": "57021", "nombre": "57021", "precio": 200000, "cantidad": 0, "foto": "fotos/57021.jpg", "colores": [], "tallas": [], "talla_colores": {}, "color_tallas": {}, "colores_fotos": {}, "mysoft_activo": true, "precios_ciudad": {"Bogota": 267000}}, {"_idx": 21, "cod": "57022", "nombre": "57022", "precio": 200000, "cantidad": 0, "foto": "fotos/57022.jpg", "colores": [], "tallas": [], "talla_colores": {}, "color_tallas": {}, "colores_fotos": {}, "mysoft_activo": true, "precios_ciudad": {"Bogota": 278000, "Cartago": 270000}}, {"_idx": 22, "cod": "57023", "nombre": "57023", "precio": 139000, "cantidad": 0, "foto": "fotos/57023.jpg", "colores": [], "tallas": [], "talla_colores": {}, "color_tallas": {}, "colores_fotos": {}, "mysoft_activo": true, "precios_ciudad": {"Bogota": 274000}}, {"_idx": 23, "cod": "57024", "nombre": "57024", "precio": 140000, "cantidad": 0, "foto": "fotos/57024.jpg", "colores": [], "tallas": [], "talla_colores": {}, "color_tallas": {}, "colores_fotos": {}, "mysoft_activo": true, "precios_ciudad": {"Bogota": 235000, "Cartago": 180000}}, {"_idx": 24, "cod": "57025", "nombre": "57025", "precio": 184000, "cantidad": 0, "foto": "fotos/57025.jpg", "colores": [], "tallas": [], "talla_colores": {}, "color_tallas": {}, "colores_fotos": {}, "mysoft_activo": true, "precios_ciudad": {"Bogota": 238000}}, {"_idx": 25, "cod": "57026", "nombre": "57026", "precio": 184000, "cantidad": 1, "foto": "", "colores": ["Café"], "tallas": ["34"], "talla_colores": {"34": ["Café"]}, "color_tallas": {"Café": ["34"]}, "colores_fotos": {}, "mysoft_activo": true, "precios_ciudad": {"Bogota": 235000}}, {"_idx": 26, "cod": "57027", "nombre": "57027", "precio": 228000, "cantidad": 0, "foto": "fotos/57027.jpg", "colores": [], "tallas": [], "talla_colores": {}, "color_tallas": {}, "colores_fotos": {}, "mysoft_activo": true, "precios_ciudad": {"Bogota": 228000}}, {"_idx": 27, "cod": "57028", "nombre": "57028", "precio": 0, "cantidad": 0, "foto": "fotos/57028.jpg", "colores": [], "tallas": [], "talla_colores": {}, "color_tallas": {}, "colores_fotos": {}, "mysoft_activo": true, "precios_ciudad": {}}, {"_idx": 28, "cod": "57029", "nombre": "57029", "precio": 265000, "cantidad": 3, "foto": "fotos/57029.jpg", "colores": ["Rojo"], "tallas": ["36", "38"], "talla_colores": {"36": ["Rojo"], "38": ["Rojo"]}, "color_tallas": {"Rojo": ["36", "38"]}, "colores_fotos": {"Rojo": "fotos/57029.jpg"}, "mysoft_activo": true, "precios_ciudad": {"Bogota": 295000, "Cartago": 197000}}, {"_idx": 29, "cod": "57030", "nombre": "57030", "precio": 0, "cantidad": 0, "foto": "fotos/57030.jpg", "colores": [], "tallas": [], "talla_colores": {}, "color_tallas": {}, "colores_fotos": {}, "mysoft_activo": true, "precios_ciudad": {}}, {"_idx": 30, "cod": "57031", "nombre": "57031", "precio": 249000, "cantidad": 0, "foto": "", "colores": [], "tallas": [], "talla_colores": {}, "color_tallas": {}, "colores_fotos": {}, "mysoft_activo": true, "precios_ciudad": {"Bogota": 249000}}, {"_idx": 31, "cod": "57032", "nombre": "57032", "precio": 258300, "cantidad": 9, "foto": "fotos/57032.jpg", "colores": ["Beige", "Negro", "Rojo"], "tallas": ["35", "36", "39", "40"], "talla_colores": {"36": ["Rojo"], "35": ["Negro"], "39": ["Beige", "Rojo"], "40": ["Rojo"]}, "color_tallas": {"Rojo": ["36", "39", "40"], "Negro": ["35"], "Beige": ["39"]}, "colores_fotos": {}, "mysoft_activo": true, "precios_ciudad": {"Bogota": 390000, "Cartago": 270000}}, {"_idx": 32, "cod": "57034", "nombre": "57034", "precio": 330300, "cantidad": 7, "foto": "fotos/57034.jpg", "colores": ["Beige", "Negro"], "tallas": ["35", "36", "37", "38", "39", "40"], "talla_colores": {"36": ["Negro"], "38": ["Negro"], "39": ["Beige", "Negro"], "37": ["Negro"], "35": ["Negro"], "40": ["Negro"]}, "color_tallas": {"Negro": ["35", "36", "37", "38", "39", "40"], "Beige": ["39"]}, "colores_fotos": {}, "mysoft_activo": true, "precios_ciudad": {"Bogota": 350000}}, {"_idx": 33, "cod": "57035", "nombre": "57035", "precio": 250000, "cantidad": 0, "foto": "fotos/57035.jpg", "colores": [], "tallas": [], "talla_colores": {}, "color_tallas": {}, "colores_fotos": {}, "mysoft_activo": true, "precios_ciudad": {"Bogota": 387000}}, {"_idx": 34, "cod": "57036", "nombre": "57036", "precio": 290000, "cantidad": 1, "foto": "fotos/57036.jpg", "colores": ["Negro"], "tallas": ["40"], "talla_colores": {"40": ["Negro"]}, "color_tallas": {"Negro": ["40"]}, "colores_fotos": {"Negro": "fotos/57036.jpg"}, "mysoft_activo": true, "precios_ciudad": {"Bogota": 395000}}, {"_idx": 35, "cod": "57037", "nombre": "57037", "precio": 247000, "cantidad": 4, "foto": "fotos/57037.jpg", "colores": ["Bronce", "Negro"], "tallas": ["35", "36", "37", "38"], "talla_colores": {"35": ["Negro"], "36": ["Negro"], "38": ["Bronce"], "37": ["Negro"]}, "color_tallas": {"Negro": ["35", "36", "37"], "Bronce": ["38"]}, "colores_fotos": {}, "mysoft_activo": true, "precios_ciudad": {"Cartago": 247000, "Bogota": 278000}}, {"_idx": 36, "cod": "57038", "nombre": "57038", "precio": 0, "cantidad": 0, "foto": "fotos/57038.jpg", "colores": [], "tallas": [], "talla_colores": {}, "color_tallas": {}, "colores_fotos": {}, "mysoft_activo": true, "precios_ciudad": {}}, {"_idx": 37, "cod": "57039", "nombre": "57039", "precio": 411300, "cantidad": 3, "foto": "fotos/57039.jpg", "colores": ["Miel"], "tallas": ["38", "39"], "talla_colores": {"38": ["Miel"], "39": ["Miel"]}, "color_tallas": {"Miel": ["38", "39"]}, "colores_fotos": {"Miel": "fotos/57039.jpg"}, "mysoft_activo": true, "precios_ciudad": {"Bogota": 457000}}, {"_idx": 38, "cod": "57040", "nombre": "57040", "precio": 297000, "cantidad": 2, "foto": "fotos/57040.jpg", "colores": ["Miel"], "tallas": ["37", "38"], "talla_colores": {"37": ["Miel"], "38": ["Miel"]}, "color_tallas": {"Miel": ["37", "38"]}, "colores_fotos": {"Miel": "fotos/57040.jpg"}, "mysoft_activo": true, "precios_ciudad": {"Bogota": 395000}}, {"_idx": 39, "cod": "57041", "nombre": "57041", "precio": 350000, "cantidad": 1, "foto": "fotos/57041.jpg", "colores": ["Negro"], "tallas": ["36"], "talla_colores": {"36": ["Negro"]}, "color_tallas": {"Negro": ["36"]}, "colores_fotos": {"Negro": "fotos/57041.jpg"}, "mysoft_activo": true, "precios_ciudad": {"Bogota": 379000}}, {"_idx": 40, "cod": "57042", "nombre": "57042", "precio": 350000, "cantidad": 0, "foto": "fotos/57042.jpg", "colores": [], "tallas": [], "talla_colores": {}, "color_tallas": {}, "colores_fotos": {}, "mysoft_activo": true, "precios_ciudad": {"Bogota": 467000}}, {"_idx": 41, "cod": "57043", "nombre": "57043", "precio": 380000, "cantidad": 2, "foto": "fotos/57043.jpg", "colores": ["Miel"], "tallas": ["35", "39"], "talla_colores": {"35": ["Miel"], "39": ["Miel"]}, "color_tallas": {"Miel": ["35", "39"]}, "colores_fotos": {"Miel": "fotos/57043.jpg"}, "mysoft_activo": true, "precios_ciudad": {"Bogota": 465000}}, {"_idx": 42, "cod": "57044", "nombre": "57044", "precio": 350000, "cantidad": 0, "foto": "fotos/57044.jpg", "colores": [], "tallas": [], "talla_colores": {}, "color_tallas": {}, "colores_fotos": {}, "mysoft_activo": true, "precios_ciudad": {"Bogota": 397000}}, {"_idx": 43, "cod": "57045", "nombre": "57045", "precio": 330300, "cantidad": 1, "foto": "fotos/57045.jpg", "colores": ["Miel"], "tallas": ["38"], "talla_colores": {"38": ["Miel"]}, "color_tallas": {"Miel": ["38"]}, "colores_fotos": {"Miel": "fotos/57045.jpg"}, "mysoft_activo": true, "precios_ciudad": {"Bogota": 367000}}, {"_idx": 44, "cod": "57046", "nombre": "57046", "precio": 667000, "cantidad": 0, "foto": "", "colores": [], "tallas": [], "talla_colores": {}, "color_tallas": {}, "colores_fotos": {}, "mysoft_activo": true, "precios_ciudad": {"Bogota": 667000}}, {"_idx": 45, "cod": "57048", "nombre": "57048", "precio": 476000, "cantidad": 0, "foto": "", "colores": [], "tallas": [], "talla_colores": {}, "color_tallas": {}, "colores_fotos": {}, "mysoft_activo": true, "precios_ciudad": {"Bogota": 476000}}, {"_idx": 46, "cod": "57050", "nombre": "57050", "precio": 347000, "cantidad": 0, "foto": "", "colores": [], "tallas": [], "talla_colores": {}, "color_tallas": {}, "colores_fotos": {}, "mysoft_activo": true, "precios_ciudad": {"Bogota": 347000}}, {"_idx": 47, "cod": "57051", "nombre": "57051", "precio": 387000, "cantidad": 0, "foto": "", "colores": [], "tallas": [], "talla_colores": {}, "color_tallas": {}, "colores_fotos": {}, "mysoft_activo": true, "precios_ciudad": {"Bogota": 387000}}, {"_idx": 48, "cod": "57052", "nombre": "57052", "precio": 397000, "cantidad": 0, "foto": "", "colores": [], "tallas": [], "talla_colores": {}, "color_tallas": {}, "colores_fotos": {}, "mysoft_activo": true, "precios_ciudad": {"Bogota": 397000}}, {"_idx": 49, "cod": "57053", "nombre": "57053", "precio": 787000, "cantidad": 0, "foto": "", "colores": [], "tallas": [], "talla_colores": {}, "color_tallas": {}, "colores_fotos": {}, "mysoft_activo": true, "precios_ciudad": {"Bogota": 787000}}, {"_idx": 50, "cod": "57054", "nombre": "57054", "precio": 0, "cantidad": 7, "foto": "fotos/57054.jpg", "colores": ["Miel"], "tallas": ["36", "37", "38", "39"], "talla_colores": {"36": ["Miel"], "37": ["Miel"], "38": ["Miel"], "39": ["Miel"]}, "color_tallas": {"Miel": ["36", "37", "38", "39"]}, "colores_fotos": {"Miel": "fotos/57054.jpg"}, "mysoft_activo": true, "precios_ciudad": {}}, {"_idx": 51, "cod": "57055", "nombre": "57055", "precio": 345000, "cantidad": 4, "foto": "fotos/57055.jpg", "colores": ["Negro"], "tallas": ["36", "37", "39"], "talla_colores": {"36": ["Negro"], "37": ["Negro"], "39": ["Negro"]}, "color_tallas": {"Negro": ["36", "37", "39"]}, "colores_fotos": {"Negro": "fotos/57055.jpg"}, "mysoft_activo": true, "precios_ciudad": {"Bogota": 345000}}, {"_idx": 52, "cod": "57056", "nombre": "57056", "precio": 322000, "cantidad": 2, "foto": "fotos/57056.jpg", "colores": ["Miel"], "tallas": ["37", "39"], "talla_colores": {"37": ["Miel"], "39": ["Miel"]}, "color_tallas": {"Miel": ["37", "39"]}, "colores_fotos": {"Miel": "fotos/57056.jpg"}, "mysoft_activo": true, "precios_ciudad": {"Bogota": 357000}}, {"_idx": 53, "cod": "571", "nombre": "571", "precio": 20000, "cantidad": 0, "foto": "", "colores": [], "tallas": [], "talla_colores": {}, "color_tallas": {}, "colores_fotos": {}, "mysoft_activo": true, "precios_ciudad": {"Cartago": 23000}}, {"_idx": 54, "cod": "572", "nombre": "572", "precio": 40000, "cantidad": 0, "foto": "", "colores": [], "tallas": [], "talla_colores": {}, "color_tallas": {}, "colores_fotos": {}, "mysoft_activo": true, "precios_ciudad": {"Cartago": 40000}}, {"_idx": 55, "cod": "573", "nombre": "573", "precio": 10000, "cantidad": 0, "foto": "", "colores": [], "tallas": [], "talla_colores": {}, "color_tallas": {}, "colores_fotos": {}, "mysoft_activo": true, "precios_ciudad": {"Cartago": 23000}}, {"_idx": 56, "cod": "574", "nombre": "574", "precio": 25000, "cantidad": 0, "foto": "", "colores": [], "tallas": [], "talla_colores": {}, "color_tallas": {}, "colores_fotos": {}, "mysoft_activo": true, "precios_ciudad": {"Cartago": 33000}}, {"_idx": 57, "cod": "575", "nombre": "575", "precio": 10000, "cantidad": 0, "foto": "", "colores": [], "tallas": [], "talla_colores": {}, "color_tallas": {}, "colores_fotos": {}, "mysoft_activo": true, "precios_ciudad": {"Cartago": 33000}}, {"_idx": 58, "cod": "576", "nombre": "576", "precio": 30000, "cantidad": 0, "foto": "", "colores": [], "tallas": [], "talla_colores": {}, "color_tallas": {}, "colores_fotos": {}, "mysoft_activo": true, "precios_ciudad": {"Cartago": 30000}}, {"_idx": 59, "cod": "577", "nombre": "577", "precio": 40000, "cantidad": 0, "foto": "", "colores": [], "tallas": [], "talla_colores": {}, "color_tallas": {}, "colores_fotos": {}, "mysoft_activo": true, "precios_ciudad": {"Cartago": 40000}}, {"_idx": 60, "cod": "578", "nombre": "578", "precio": 35000, "cantidad": 0, "foto": "", "colores": [], "tallas": [], "talla_colores": {}, "color_tallas": {}, "colores_fotos": {}, "mysoft_activo": true, "precios_ciudad": {"Cartago": 35000}}, {"_idx": 61, "cod": "579", "nombre": "579", "precio": 25000, "cantidad": 0, "foto": "", "colores": [], "tallas": [], "talla_colores": {}, "color_tallas": {}, "colores_fotos": {}, "mysoft_activo": true, "precios_ciudad": {"Cartago": 25000}}];
 let searchQ='',filterTalla='',filterColor='';
 function precioCartago(p){return p.precios_ciudad&&p.precios_ciudad['Cartago']?p.precios_ciudad['Cartago']:0;}
 (function(){